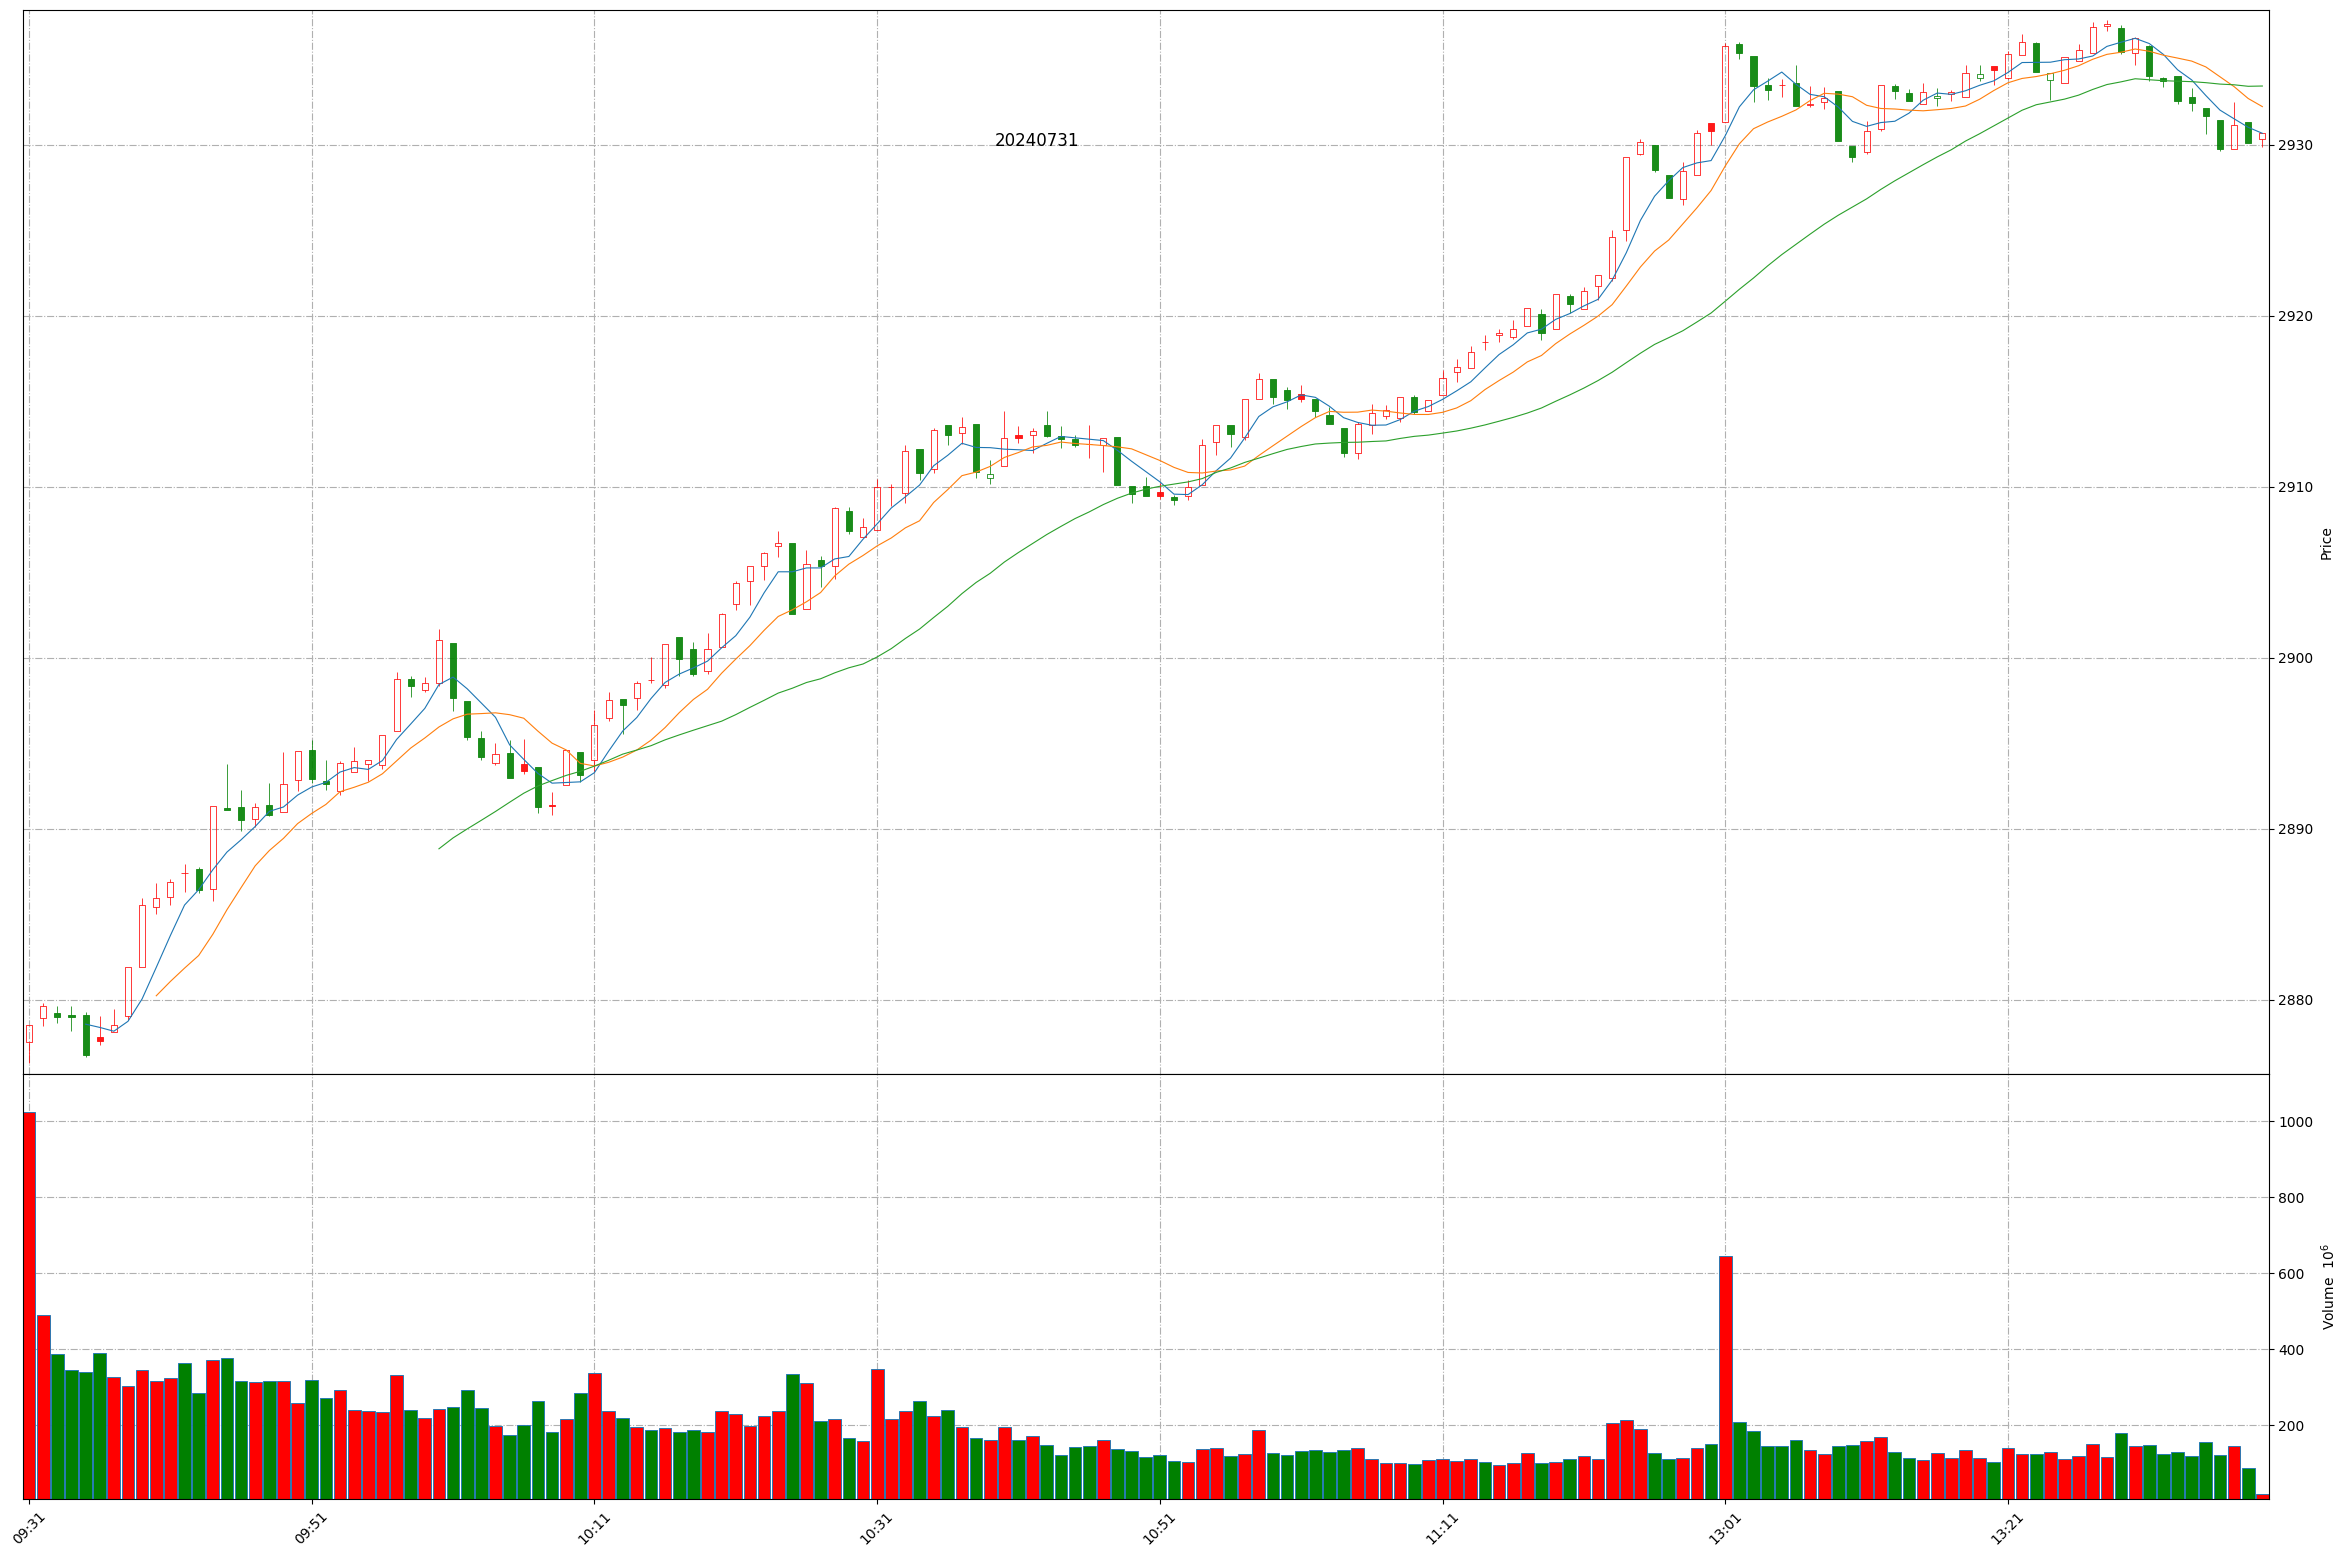
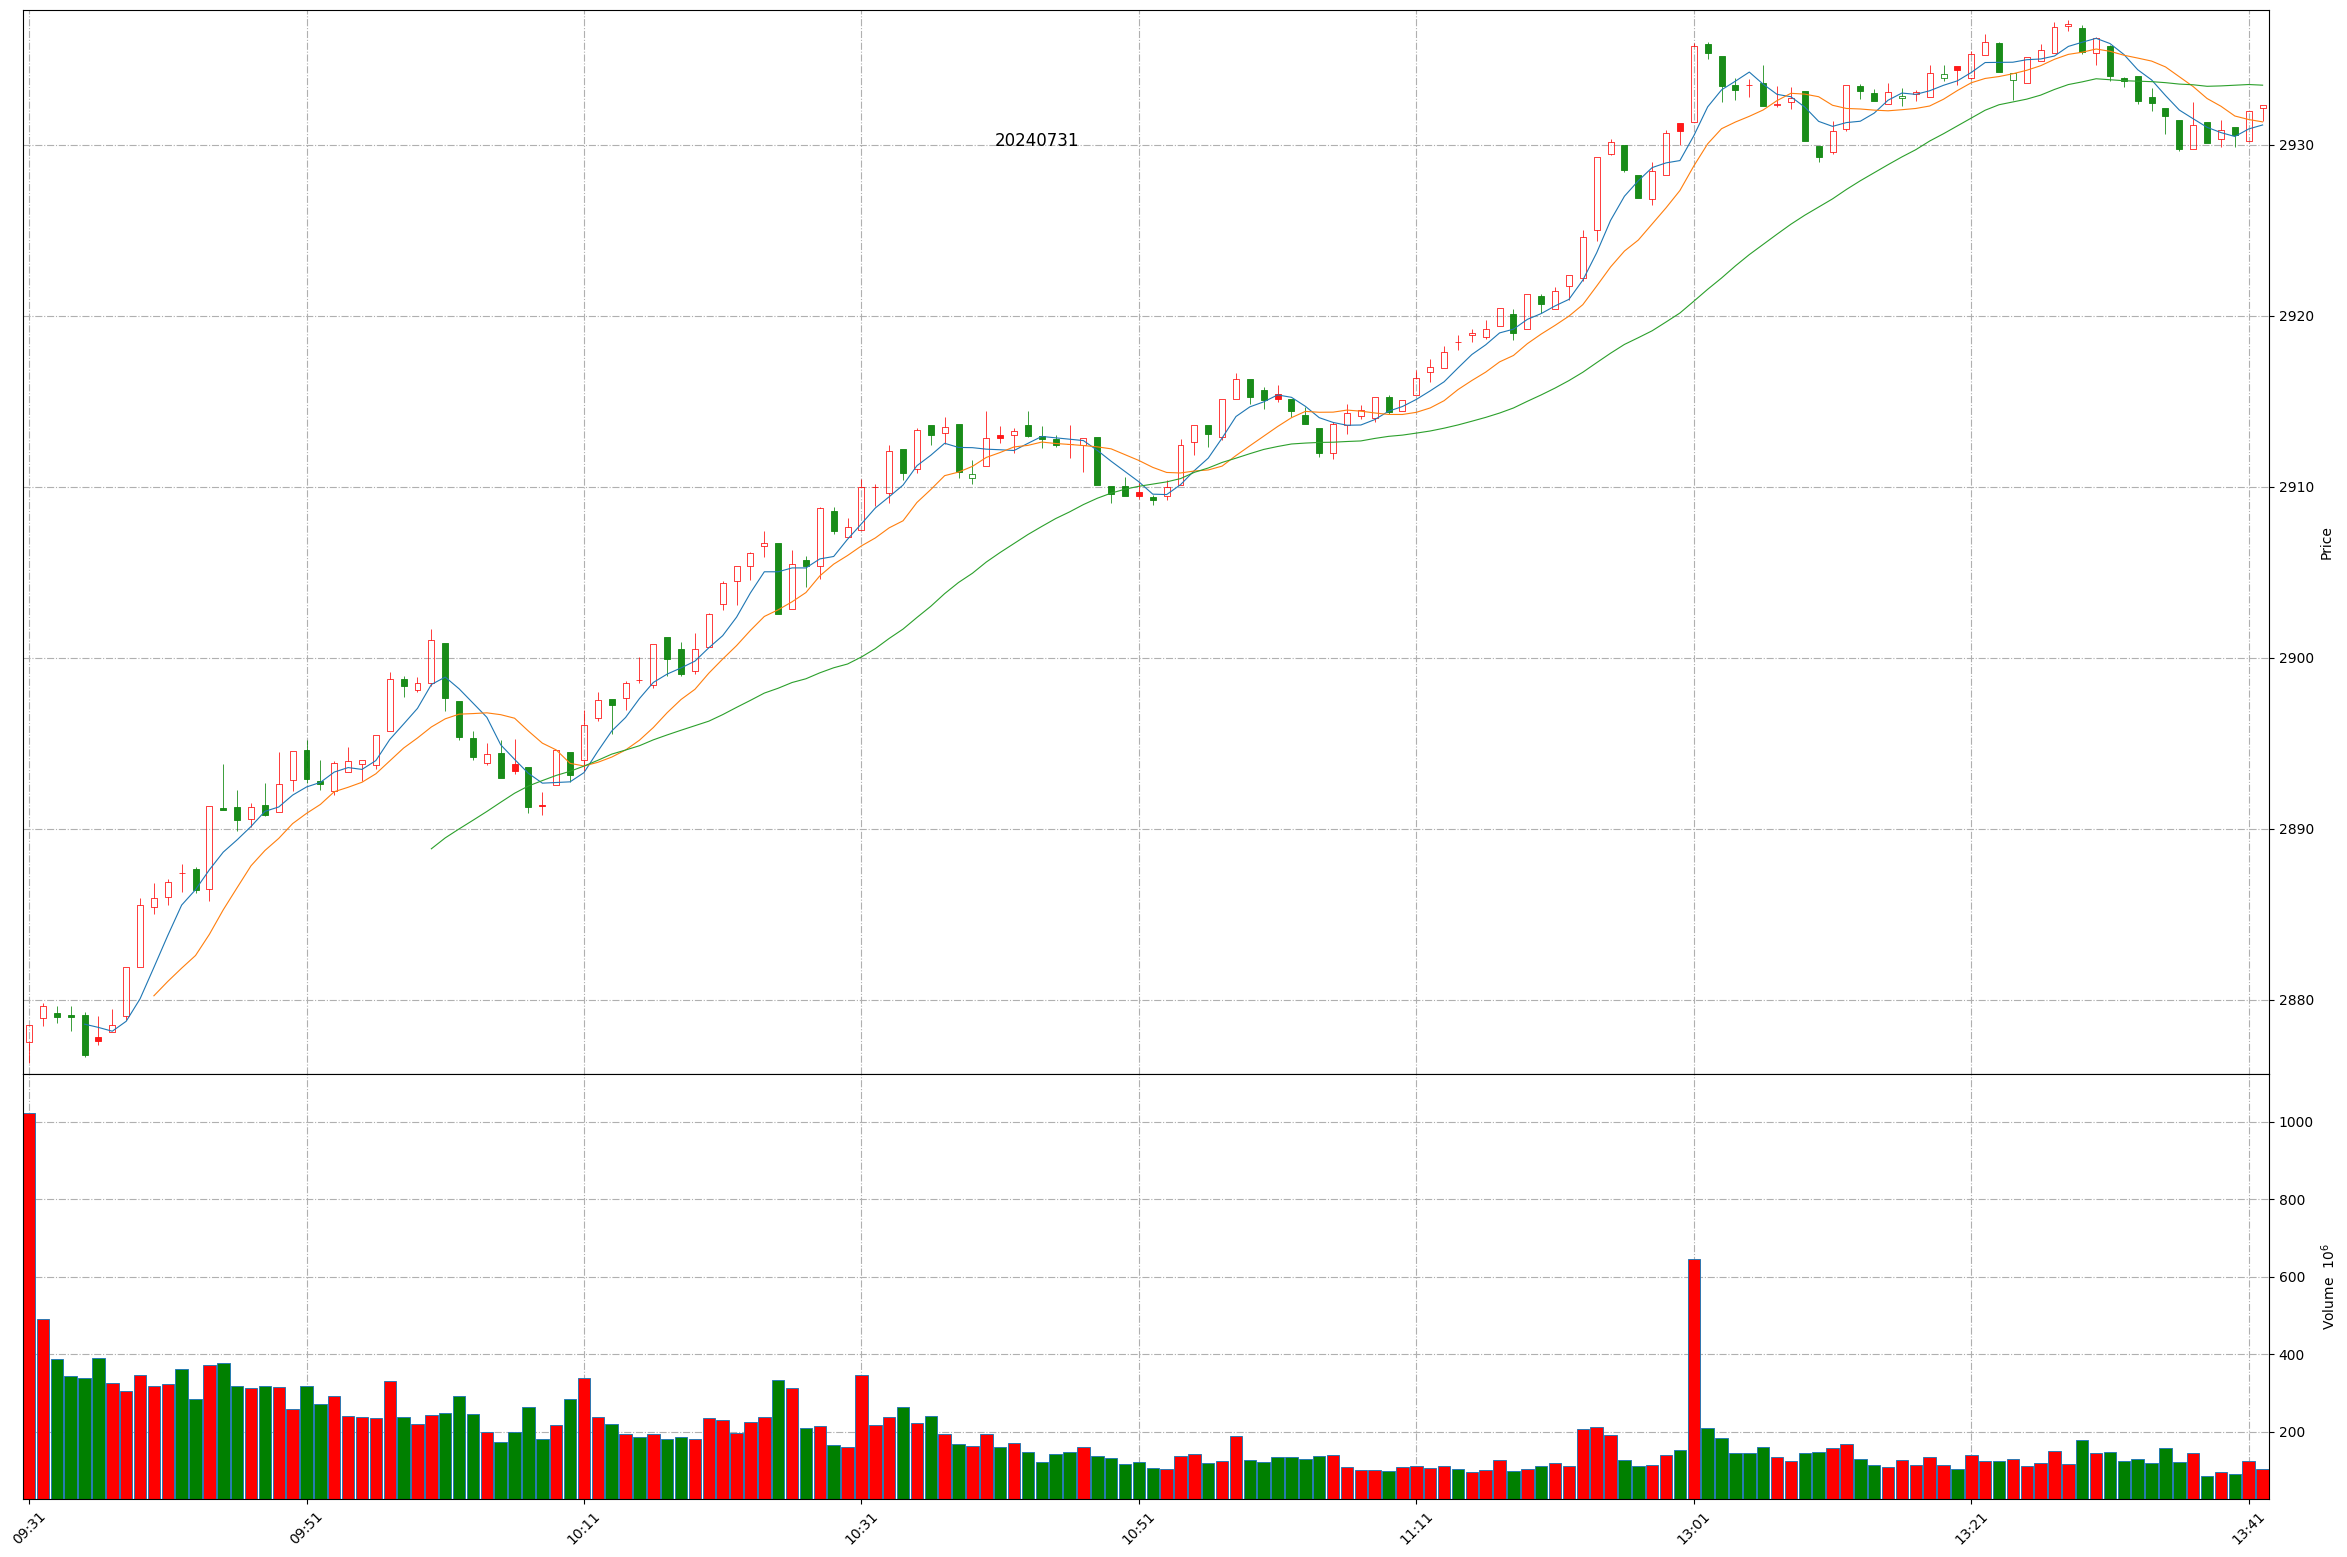
Github action update at 2024-07-31 13:42:27.

diff --git a/README.md b/README.md
@@ -1,11 +1,11 @@
 
 # Daily-A-share-market-quotes 每日 A 股指数（5min 更新）- 20240731
 
-### 上证指数 20240731 13:38
+### 上证指数 20240731 13:42
 ![](./fig/2024/7/20240731-sh000001.png)
 
-### 深证成指 20240731 13:38
+### 深证成指 20240731 13:42
 ![](./fig/2024/7/20240731-sz399001.png)
 
-### 北证50 20240731 13:38
+### 北证50 20240731 13:42
 ![](./fig/2024/7/20240731-bj899050.png)
